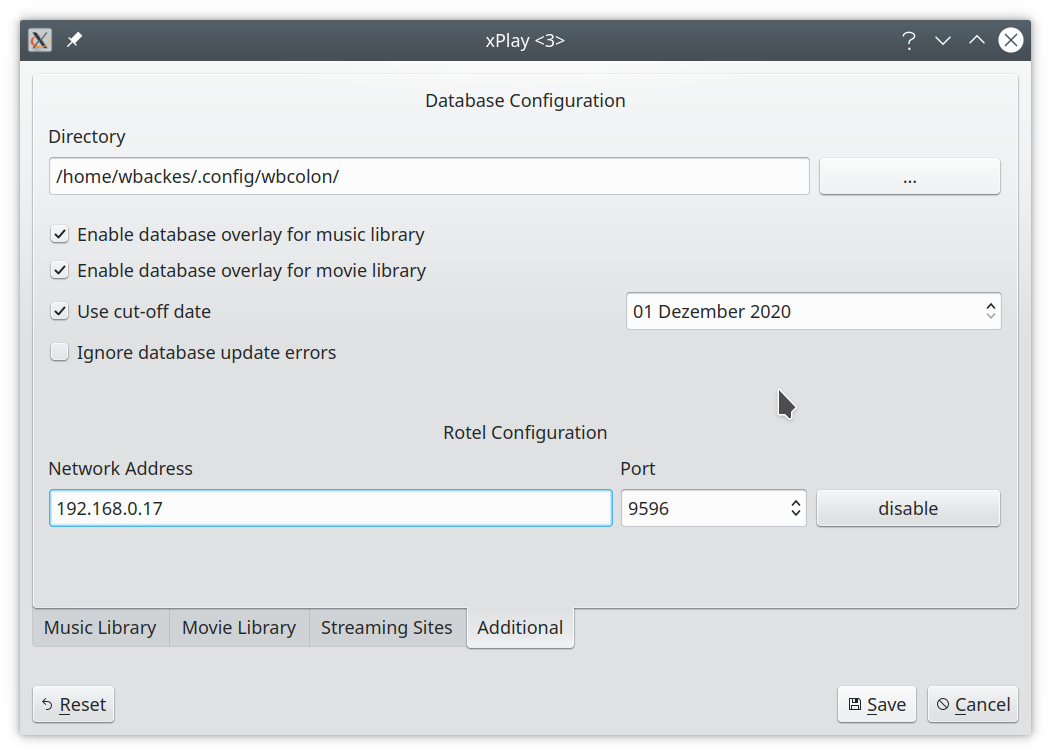
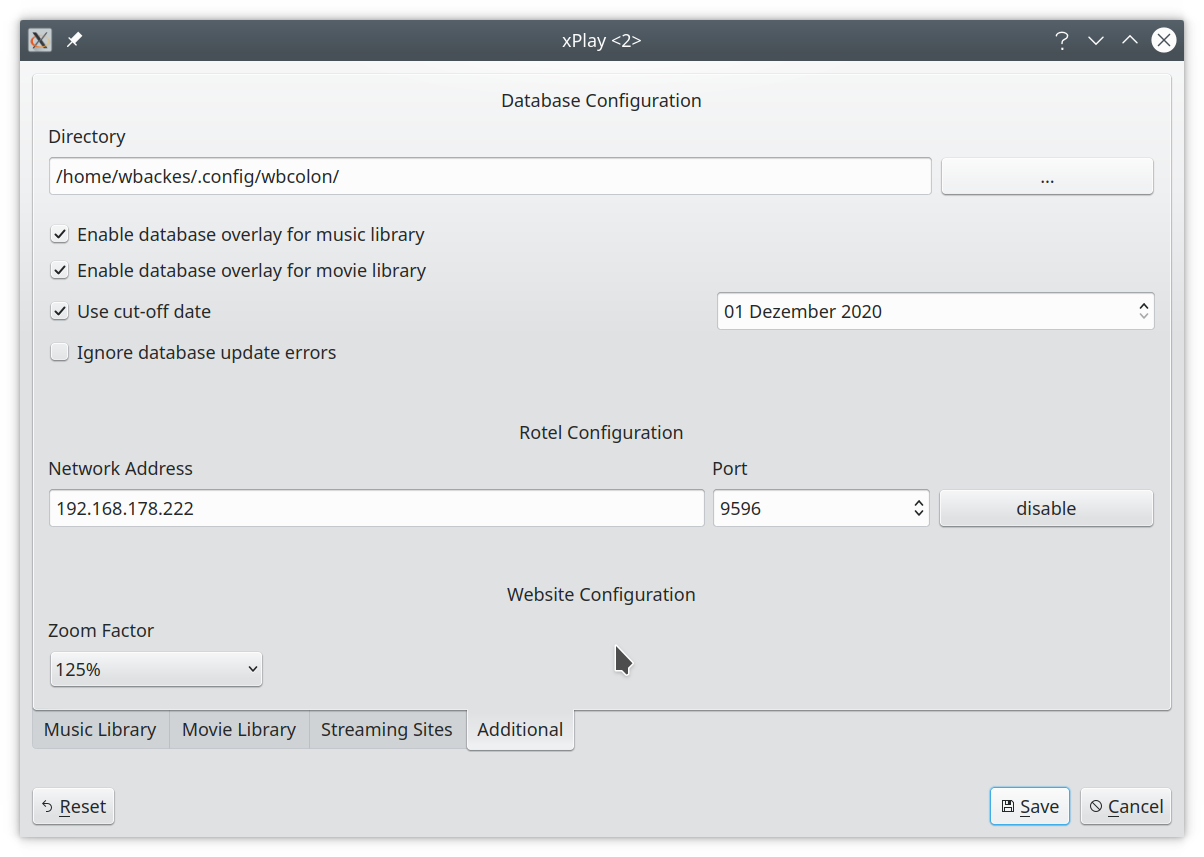
Update CHANGELOG.md and README.md. Update screenshots and version number.

diff --git a/xPlay.cpp b/xPlay.cpp
@@ -155,7 +155,7 @@ int main(int argc, char* argv[])
 {
     QApplication playApp(argc, argv);
     QApplication::setApplicationName("xPlay");
-    QApplication::setApplicationVersion("0.7.2");
+    QApplication::setApplicationVersion("0.8.0");
     QCommandLineParser playAppParser;
     if (handleCommandLine(playApp, playAppParser)) {
         // Exit if the command line was handled.

diff --git a/README.md b/README.md
@@ -87,10 +87,11 @@ xPlay has a music view, a movie view and a streaming view.
 ### Music View
 
 ![Screenshot Music View](screenshots/xplay_screenshot_music_view_00.png)
-![Screenshot Music View (shuffl)](screenshots/xplay_screenshot_music_view_01.png)
+![Screenshot Music View (shuffle)](screenshots/xplay_screenshot_music_view_01.png)
 ![Screenshot Music View (database)](screenshots/xplay_screenshot_music_view_02.png)
 ![Screenshot Music View (search)](screenshots/xplay_screenshot_music_view_03.png)
 ![Screenshot Music View (playlists)](screenshots/xplay_screenshot_music_view_04.png)
+![Screenshot Music View (artistinfo)](screenshots/xplay_screenshot_music_view_05.png)
 
 The main screen of the music view has four vertical list for the artists, album, tracks and the queue. The
 album list is updated if you click (or select) on an artist and the track list is updated if you click (or select)
@@ -115,6 +116,13 @@ The player itself displays the artist, album and track currently played. It incl
 currently played file. In addition there is player control section with a *play/pause*, *stop*, *prev*, *next*
 and *clear queue* buttons and a volume dialer. If you double-click on an entry of the queue then the player jumps
 to this track. Right-clicking on a queue entry will remove this track from the queue.
+
+The artist info can be accessed through a context menu by a right-click on an entry in the artist list. The artist
+info is a small simple web browser with minimal navigational control buttons such as home, back and forward as well
+as selecting a zoom factor. Pressing the *close* button will end the artist info view. A white filled star icon
+indicates that no URL is currently stored within our database. A grey filled star indicates that the URL was taken
+out of our database. Clicking on a white filled star will store the current URL to the database. The database entry
+is removed if we click on a grey filled star.
 
 The Rotel widget allows to control a Rotel A12 or A14 amp via a network connection. The volume can be adjusted
 (maximum of 60) and the input can be selected. The values for bass and treble can be adjusted (from -10 to +10)

diff --git a/CHANGELOG.md b/CHANGELOG.md
@@ -1,19 +1,31 @@
 # Changelog
 
+## 0.8.0 - 2021-05-16
+
+- Add artist info for music view.
+- Add zoom factor to streaming view.
+- Add default zoom factor in configuration.
+- Fix album initializer for music file.
+- Added feature that selects artist and album for queued track (ctrl+click).
+- Improve album and search selectors.
+
+
 ## 0.7.2 - 2021-05-13
 
 - Added busy cursor for artist and selector queue operations.
-- Improved database overlay update for played tracks.  
+- Improved database overlay update for played tracks.
 - Fix audio and subtitle default selection.
 - Exit if dbus command cannot connect to dbus interface of xPlay (not running).
 - Minor fixes.
+
 
 ## 0.7.1 - 2021-04-24
 
 - Added limited error handling for music library scanning.
 - Added option for default audio and subtitle language for movies.
-- Minor configuration dialog UI layout fixes.  
+- Minor configuration dialog UI layout fixes.
 - Clang-tidy fixes.
+
 
 ## 0.7.0 - 2021-04-06
 
@@ -151,7 +163,7 @@
 
 ## 0.3.0 - 2020-10-31
 
-- Added a movie player view, movie library scanning. 
+- Added a movie player view, movie library scanning.
 - Bugfixes
 
 
